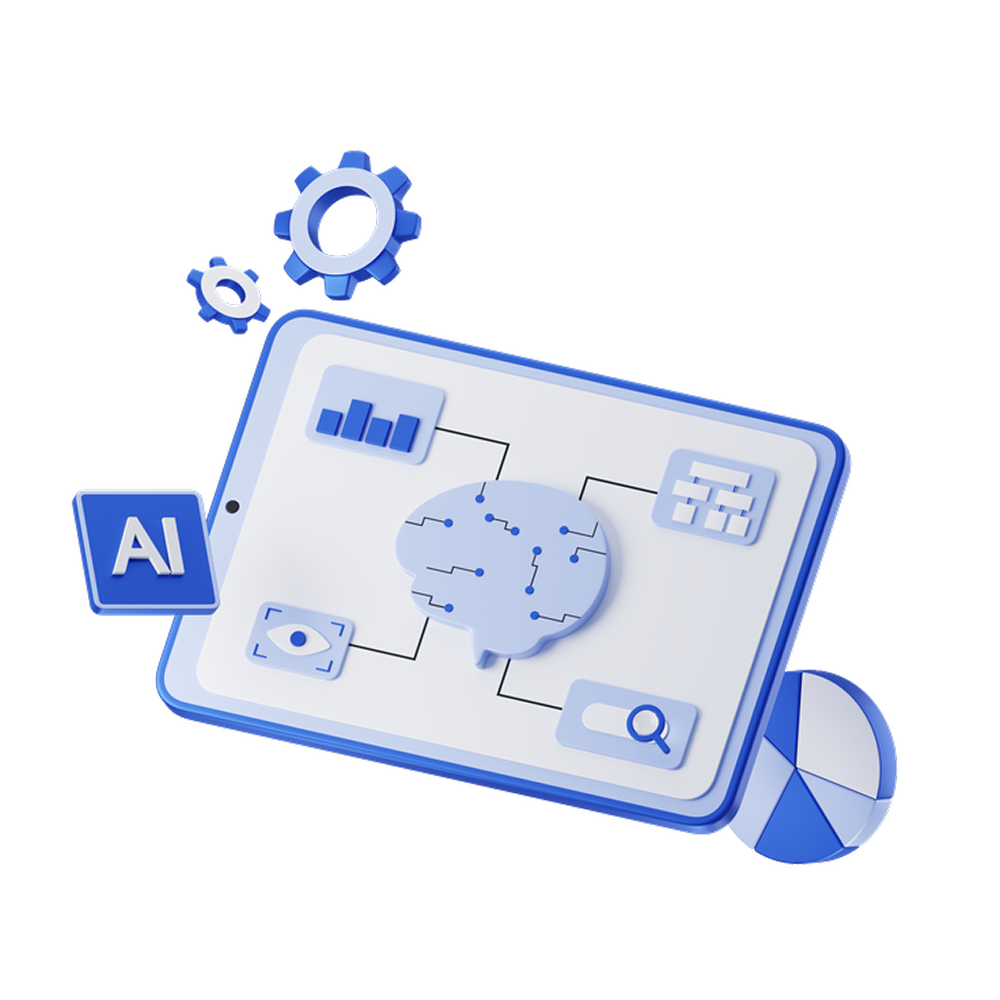
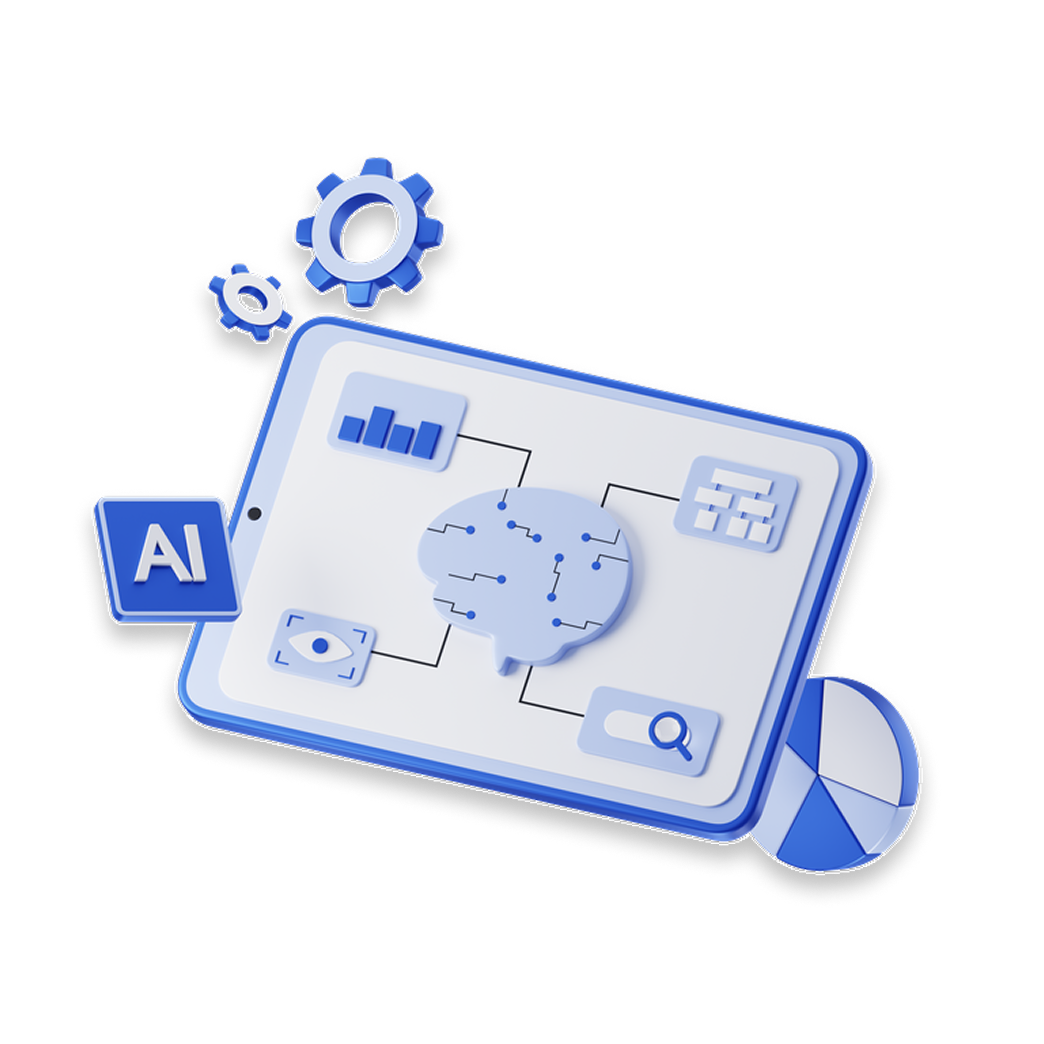
fix and add detail

Changed region(s): [[0.062, 0.155, 0.899, 0.868], [0.372, 0.527, 0.403, 0.558]]

diff --git a/index.html b/index.html
@@ -3,12 +3,13 @@
 <head>
   <meta charset="UTF-8">
   <meta name="viewport" content="width=device-width, initial-scale=1.0">
+  <title>Portofolio || Ael</title>
   <link href="/src/style.css" rel="stylesheet">
 </head>
 <body class="w-[100%] h-auto">
-  <div class="w-[100%] h-[100vh] bg-red-200 p-[100px] overflow-scroll snap-y snap-mandatory">
+  <div class="w-[100%] h-[100vh] bg-red-200  p-5 sm:p-10 md:p-[100px] overflow-scroll snap-y snap-mandatory">
     <div class="w-[100%] h-auto bg-amber-300 rounded-3xl flex flex-col gap-5 overflow-hidden shadow-2xl drop-shadow-2xl">
-      <section class="w-[100%] h-[100vh] bg-blue-300 flex flex-col">
+      <section class="w-[100%] h-auto bg-white flex flex-col py-5 xl:py-0">
         <!-- ===NAVBAR=== -->
         <div class="navbar bg-base-100 shadow-sm">
           <div class="navbar-start">
@@ -48,18 +49,21 @@
             </ul>
           </div>
           <div class="navbar-end">
-            <a class="btn">Button</a>
+            <a class="btn btn-ghost text-xl font-bold">AEL</a>
           </div>
         </div>
         <!-- ===HERO=== -->
-        <div class="flex flex-row overflow-hidden">
+        <div class="flex flex-col-reverse xl:flex-row h-screen">
           <!-- ===TEXT=== -->
-          <div class="bg-indigo-300 w-[50%] h-[100%] flex flex-col items-center justify-center">
-            <h1>Welcome</h1>
-            <p>Lorem ipsum dolor sit, amet consectetur adipisicing elit. Natus vitae br accusamus sunt?</p>
+          <div class="w-[100%] xl:w-[50%] h-[50%] xl:h-[100%] justify-center flex flex-col gap-3 px-10">
+            <h1 class="font-black text-3xl bg-gradient-to-r from-indigo-500 via-purple-500 to-pink-500 bg-clip-text text-transparent">Welcome to My Portofolio.</h1>
+            <p class="text-2xl text-justify">Hai, aku Ael 👋 seorang programmer yang fokus di web development, tapi juga suka banget eksplor teknologi baru. Buatku, ngoding itu bukan cuma kerjaan, tapi cara seru buat bikin ide jadi kenyataan. Aku percaya setiap baris kode bisa jadi sesuatu yang impactful</p>
+            <div>
+              <button class="btn btn-soft btn-primary rounded-2xl">get in Touch.</button>
+            </div>
           </div>
           <!-- ===IMG=== -->
-          <div class="bg-lime-300 w-[50%] h-[100vh] flex flex-col items-center justify-center">
+          <div class="w-[100%] xl:w-[50%] h-[50%] xl:h-[100%] flex flex-col items-center justify-center">
             <figure>
               <img src="src/3dModelHero.png"  class="float-slow">
             </figure>
